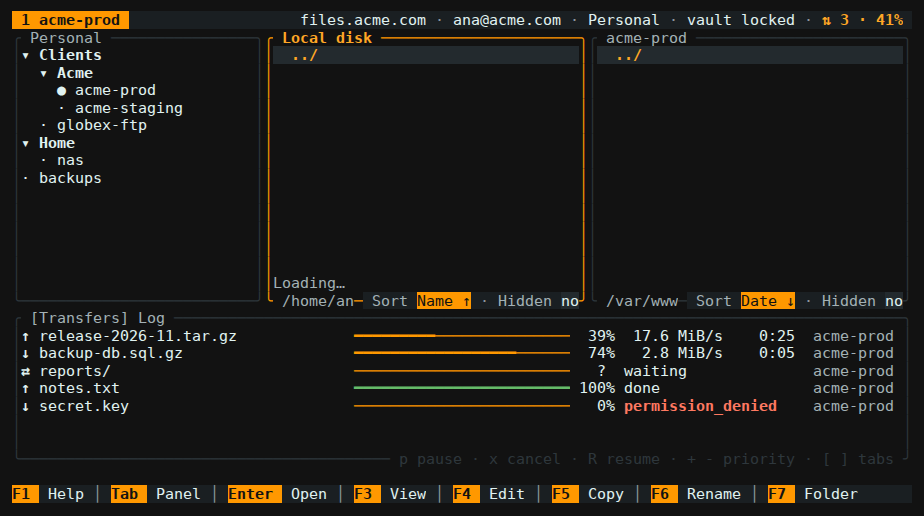
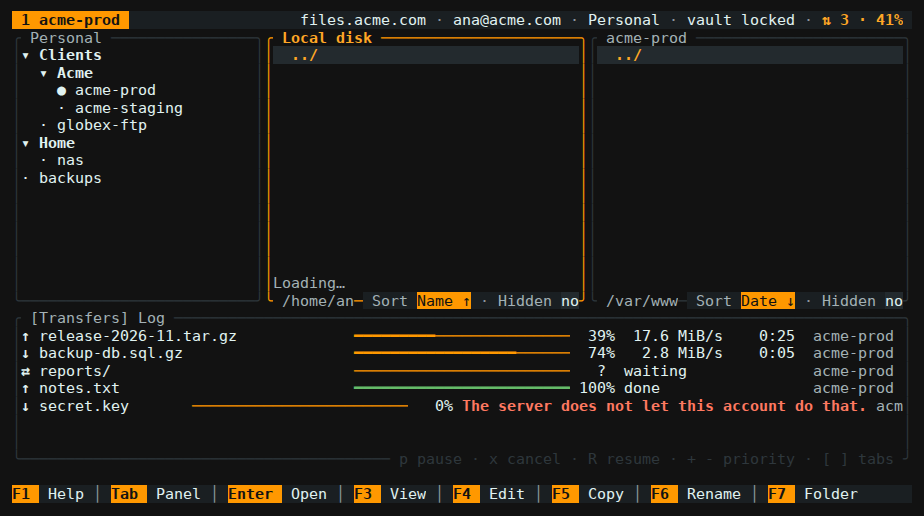
feat(tui): open the commands in the middle of the screen
The list of commands grew from the corner above the key row, away from
where the eyes are. It now opens centered like the help, with the line
being typed at its top, and the row of keys stays in place.

Changed region(s): [[0.4545, 0.7752, 1.0, 0.8062], [0.2121, 0.7752, 0.3636, 0.8062]]

diff --git a/tui/src/ui/home.rs b/tui/src/ui/home.rs
@@ -1966,13 +1966,11 @@ impl Home {
                 self.render_bottom(frame, log_area, look, &zone);
             }
             self.render_feedback(frame, feedback, look);
-            if !matches!(self.overlay, Some(Overlay::Commands { .. })) {
-                self.shortcut_bar(keys, look).render(frame, keys, look);
-            }
+            self.shortcut_bar(keys, look).render(frame, keys, look);
         }
         match &self.overlay {
             Some(Overlay::Commands { input, selected }) => {
-                Self::render_commands(frame, keys, input, *selected, look);
+                Self::render_commands(frame, input, *selected, look);
             }
             Some(Overlay::Settings { selected }) => {
                 self.render_settings(frame, *selected, look);
@@ -2222,30 +2220,23 @@ impl Home {
     }
 
     /// The command line in place of the shortcuts, with the matching commands above it.
-    fn render_commands(frame: &mut Frame, area: Rect, input: &Input, selected: usize, look: &Look) {
+    fn render_commands(frame: &mut Frame, input: &Input, selected: usize, look: &Look) {
         let (m, palette) = (&look.messages, &look.palette);
-        let line = Line::from(vec![
-            Span::raw("/").fg(palette.accent).bold(),
-            Span::raw(input.value().to_owned()),
-        ]);
-        frame.render_widget(
-            Paragraph::new(line).style(Style::new().bg(palette.surface)),
-            area,
-        );
-        let column = u16::try_from(input.cursor() + 1).unwrap_or(u16::MAX);
-        frame.set_cursor_position((area.x.saturating_add(column), area.y));
         let matches = Self::matches(input);
-        if matches.is_empty() {
-            return;
-        }
-        let list = commands_area(area, matches.len());
         let inside = popup(
             frame,
-            list,
+            commands_area(frame.area(), matches.len()),
             &m.get("commands.title"),
             &m.get("commands.hint"),
             palette,
         );
+        let line = Line::from(vec![
+            Span::raw("/").fg(palette.accent).bold(),
+            Span::raw(input.value().to_owned()),
+        ]);
+        frame.render_widget(Paragraph::new(line), inside);
+        let column = u16::try_from(input.cursor() + 1).unwrap_or(u16::MAX);
+        frame.set_cursor_position((inside.x.saturating_add(column), inside.y));
         let lines: Vec<Line> = matches
             .iter()
             .enumerate()
@@ -2261,7 +2252,7 @@ impl Home {
                 }
             })
             .collect();
-        frame.render_widget(Paragraph::new(lines), inside);
+        frame.render_widget(Paragraph::new(lines), commands_list(inside));
     }
 
     /// The settings with their values and where each lives.
@@ -2770,14 +2761,19 @@ fn settings_area(area: Rect) -> Rect {
     centered(area, 78, u16::try_from(SETTINGS.len()).unwrap_or(0) + 6)
 }
 
-/// The matching commands above the command line.
-fn commands_area(keys: Rect, count: usize) -> Rect {
-    let height = u16::try_from(count).unwrap_or(u16::MAX).saturating_add(2);
+/// The popup of commands in the middle of the screen: the line being typed, a blank line and the matching commands.
+fn commands_area(screen: Rect, count: usize) -> Rect {
+    let height = u16::try_from(count).unwrap_or(u16::MAX).saturating_add(4);
+    centered(screen, 66, height)
+}
+
+/// The rows of the commands under the line being typed and a blank line.
+fn commands_list(inside: Rect) -> Rect {
     Rect::new(
-        keys.x,
-        keys.y.saturating_sub(height),
-        66.min(keys.width),
-        height,
+        inside.x,
+        inside.y.saturating_add(2),
+        inside.width,
+        inside.height.saturating_sub(2),
     )
 }
 

diff --git a/tui/src/ui/home/mouse.rs b/tui/src/ui/home/mouse.rs
@@ -4,7 +4,7 @@ use ratatui::layout::Position;
 
 use super::{
     Ask, Focus, Home, KeyCode, Look, Overlay, Rect, SETTINGS, Side, Tab, choices_area,
-    commands_area, host_key_area, panel, settings_area,
+    commands_area, commands_list, host_key_area, panel, settings_area,
 };
 use crate::ui::mouse::{MouseKind, first_row, footer_key, key, row};
 use crate::ui::widgets::popup_inside;
@@ -36,7 +36,7 @@ impl Home {
                 return (Vec::new(), false);
             }
             return (
-                self.overlay_mouse(area, keys, position, kind, overlay.clone(), look),
+                self.overlay_mouse(area, position, kind, overlay.clone(), look),
                 false,
             );
         }
@@ -155,7 +155,6 @@ impl Home {
     fn overlay_mouse(
         &mut self,
         area: Rect,
-        keys: Rect,
         position: Position,
         kind: MouseKind,
         overlay: Overlay,
@@ -179,7 +178,8 @@ impl Home {
         let action = match overlay {
             Overlay::Commands { input, .. } => {
                 let matches = Self::matches(&input);
-                if let Some(index) = hit(commands_area(keys, matches.len()), 0, matches.len()) {
+                let inside = popup_inside(commands_area(area, matches.len()), &look.palette);
+                if let Some(index) = row(commands_list(inside), position, 0, matches.len()) {
                     self.overlay = None;
                     return self.commands_key(key(KeyCode::Enter), input, index, look);
                 }
